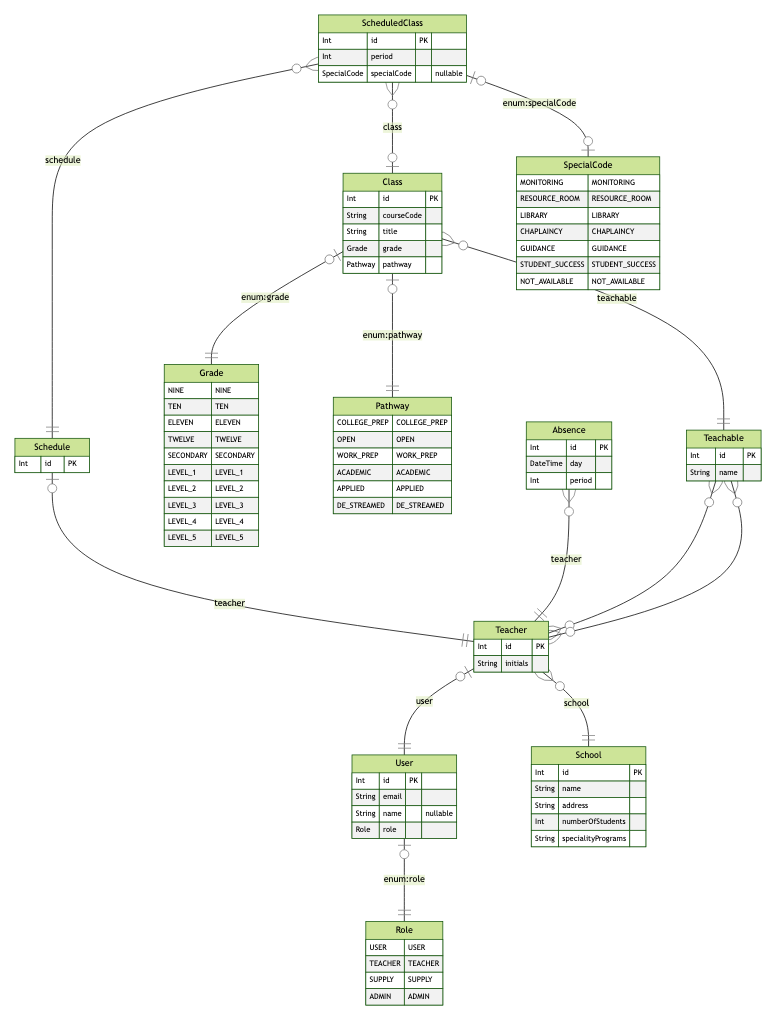
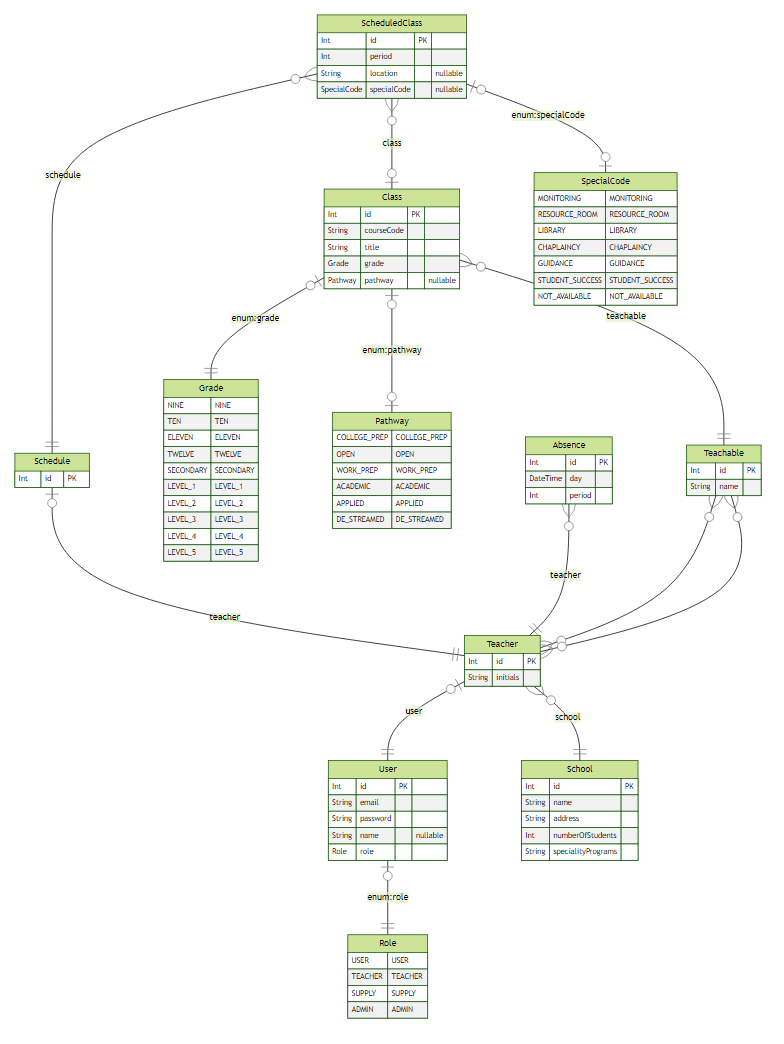
Fix prisma plz (#19)
* Fix runtime issues

* Squash prisma migrations

diff --git a/client/src/App.js b/client/src/App.js
@@ -6,7 +6,6 @@ import Board from './page/Board';
 import AbsenceSchedule from './page/AbsenceSchedule';
 import UploadClasses from './page/UploadClasses/UploadClasses';
 import { TeacherProfile } from './page/TeacherProfile/TeacherProfile';
-import SchoolSchedule from './page/schoolSchedule';
 import {BrowserRouter as Router, Routes, Route} from 'react-router-dom';
 import Dropdown from './components/dropdown';
 import Header from './components/header';
@@ -47,7 +46,7 @@ function App() {
             </ul>
           }/>
           <Route path='/importAbsences' element={<AbsenceSchedule/>}/>
-          <Route path='/teacherAbsences' element={<TeacherAbsences/>}/>
+          <Route path='/teacherAbsences' element={<AbsenceSchedule/>}/>
           <Route path='/importAbsences' element={<AbsenceSchedule/>}/>
           <Route path='/uploadClasses' element={<UploadClasses/>}/>
           <Route path='/addTeacher' element={<TeacherProfile/>}/>

diff --git a/server/routes/courses.js b/server/routes/courses.js
@@ -1,6 +1,6 @@
 var express = require('express');
 var router = express.Router();
-const { createTeachables } = require('../helpers/createTeachables');
+const { createTeachables } = require('../Helper/createTeachables');
 
 const { PrismaClient } = require('@prisma/client');
 
